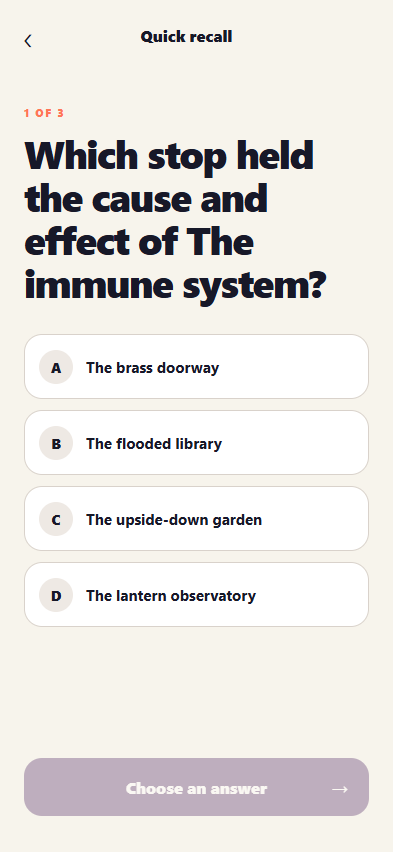
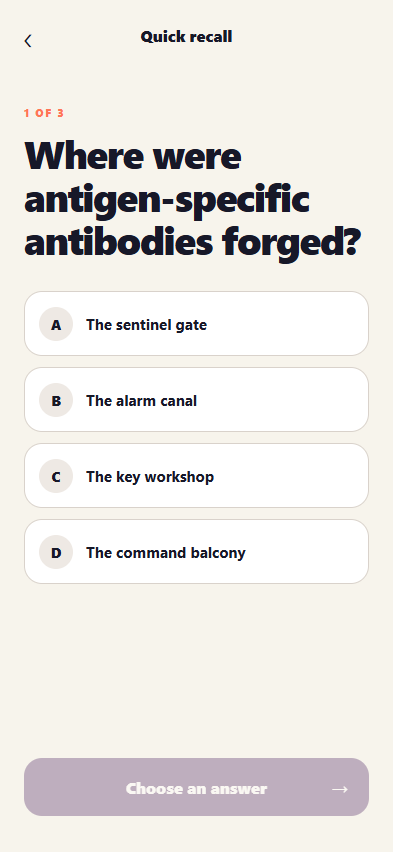
feat: add accurate judge-facing memory trails

Changed region(s): [[0.0611, 0.1526, 0.916, 0.7019], [0.916, 0.3967, 0.9466, 0.7019]]

diff --git a/apps/mobile/src/domain/trails.ts b/apps/mobile/src/domain/trails.ts
@@ -1,13 +1,61 @@
 export type TrailScene = { place: string; emoji: string; title: string; story: string; anchor: string; gradient: readonly [string, string] };
 export type MemoryTrail = { id: string; topic: string; scenes: TrailScene[]; quiz: { prompt: string; options: string[]; correct: number; explanation: string } };
+
 const palettes: Array<readonly [string, string]> = [['#5B326F', '#A14F78'], ['#315D70', '#4E9085'], ['#6E422D', '#D0744F'], ['#3E477A', '#7A67AA'], ['#305A49', '#6C9B67']];
-const places = ['The brass doorway', 'The flooded library', 'The upside-down garden', 'The clockmaker’s roof', 'The lantern observatory'];
-const emoji = ['🚪', '📚', '🌿', '⏳', '🔭'];
+
 export function generateTrail(rawTopic: string): MemoryTrail {
-  const topic = rawTopic.trim().replace(/\s+/g, ' '); if (!topic) throw new Error('A topic is required');
-  const words = topic.split(' '); const key = words.length > 3 ? words.slice(0, 3).join(' ') : topic; const concepts = ['first principle', 'moving parts', 'cause and effect', 'exception', 'lasting insight'];
-  return { id: slug(topic), topic, scenes: concepts.map((concept, index) => ({ place: places[index], emoji: emoji[index], gradient: palettes[index], title: index === 0 ? `Meet ${key}` : capitalize(concept), story: `Picture ${topic} as something alive in ${places[index].toLowerCase()}. Its ${concept} becomes exaggerated, physical, and impossible to ignore.`, anchor: `${capitalize(concept)}: connect the location, the unusual object, and the core idea in one mental snapshot.` })), quiz: { prompt: `Which stop held the cause and effect of ${topic}?`, options: [places[0], places[1], places[2], places[4]], correct: 2, explanation: 'The upside-down garden was your third stop—the place where causes visibly changed their effects.' } };
+  const topic = rawTopic.trim().replace(/\s+/g, ' ');
+  if (!topic) throw new Error('A topic is required');
+  const normalized = topic.toLowerCase();
+  if (normalized.includes('immune')) return immuneTrail(topic);
+  if (normalized.includes('sql') || normalized.includes('join')) return sqlTrail(topic);
+  if (normalized.includes('french') || normalized.includes('verb')) return frenchTrail(topic);
+  return fallbackTrail(topic);
 }
+
+function immuneTrail(topic: string): MemoryTrail {
+  return makeTrail(topic, [
+    ['The sentinel gate', '🛡', 'The first line never sleeps', 'Skin, mucus, and chemical barriers stand at a crowded gate, stopping invaders before they enter.', 'Innate barriers act immediately and broadly.'],
+    ['The alarm canal', '🚨', 'Inflammation calls for help', 'A wounded canal flashes red and widens. Chemical signals increase blood flow and guide immune cells to the damage.', 'Inflammation recruits defenders to an injured site.'],
+    ['The key workshop', '🔑', 'Antibodies fit one target', 'B cells forge Y-shaped keys. Each antibody recognizes a particular antigen and marks that target for removal.', 'Adaptive immunity is specific: one key, one antigen.'],
+    ['The command balcony', '📯', 'T cells coordinate and destroy', 'Helper T cells direct the defense from a balcony while cytotoxic T cells remove infected cells below.', 'Helper T cells coordinate; cytotoxic T cells kill infected cells.'],
+    ['The archive vault', '🗄', 'Memory makes round two faster', 'After the battle, memory B and T cells file the invader’s portrait so the next response begins sooner and stronger.', 'Immune memory explains lasting protection and vaccination.'],
+  ], 'Where were antigen-specific antibodies forged?', 2, 'The key workshop represented B cells producing antibodies that recognize a particular antigen.');
+}
+
+function sqlTrail(topic: string): MemoryTrail {
+  return makeTrail(topic, [
+    ['The matching doorway', '🤝', 'INNER keeps mutual matches', 'Two guest lists meet at one doorway. Only names appearing on both lists are allowed through.', 'INNER JOIN returns rows with matching keys in both tables.'],
+    ['The left-hand gallery', '👈', 'LEFT keeps every left row', 'Every portrait from the left gallery stays on the wall; missing partners from the right become blank frames.', 'LEFT JOIN preserves all left rows and fills missing right values with NULL.'],
+    ['The right-hand gallery', '👉', 'RIGHT mirrors the rule', 'Every right-side portrait remains, even when the left gallery has no matching frame.', 'RIGHT JOIN preserves all right rows.'],
+    ['The union ballroom', '🪩', 'FULL keeps everyone', 'Both guest lists enter the ballroom. Matched guests pair up; unmatched guests still receive a place.', 'FULL OUTER JOIN preserves matched and unmatched rows from both tables.'],
+    ['The multiplication garden', '✖', 'CROSS makes every pairing', 'Each red flower is tied to every blue flower, producing every possible combination.', 'CROSS JOIN returns the Cartesian product.'],
+  ], 'Which stop preserved every row from the left table?', 1, 'The left-hand gallery kept every left portrait and used blank frames—NULLs—when no right match existed.');
+}
+
+function frenchTrail(topic: string): MemoryTrail {
+  return makeTrail(topic, [
+    ['The pronoun station', '👥', 'Choose who performs the action', 'Six passengers—je, tu, il, nous, vous, ils—wait for a verb ticket that agrees with them.', 'Conjugation begins with the subject pronoun.'],
+    ['The stem workshop', '✂', 'Remove the infinitive ending', 'A tailor snips -er, -ir, or -re from the infinitive, leaving the stem ready for a new ending.', 'Regular verbs are built from a stable stem plus an ending.'],
+    ['The ending carousel', '🎠', 'Each subject gets an ending', 'Pronouns ride labeled horses: for parler, je takes -e, tu takes -es, and ils takes -ent.', 'The ending carries person and number.'],
+    ['The irregular alley', '🎭', 'Common verbs break the pattern', 'Être, avoir, aller, and faire wear disguises; their forms must be learned as distinct shapes.', 'High-frequency irregular verbs do not follow one regular template.'],
+    ['The time bridge', '🌉', 'Tense changes the viewpoint', 'The same action crosses past, present, and future arches, changing its auxiliary or ending as it moves.', 'Tense places the action in time.'],
+  ], 'Where was the infinitive ending removed?', 1, 'The stem workshop cut -er, -ir, or -re away before adding a subject-specific ending.');
+}
+
+function fallbackTrail(topic: string): MemoryTrail {
+  const places = ['The brass doorway', 'The flooded library', 'The upside-down garden', 'The clockmaker’s roof', 'The lantern observatory'];
+  const emoji = ['🚪', '📚', '🌿', '⏳', '🔭'];
+  const concepts = ['first principle', 'moving parts', 'cause and effect', 'exception', 'lasting insight'];
+  const scenes = concepts.map((concept, index) => [places[index], emoji[index], capitalize(concept), `Picture ${topic} as something alive here. Make its ${concept} exaggerated, physical, and impossible to ignore.`, `${capitalize(concept)}: connect the location, one unusual object, and the core idea.`] as const);
+  return makeTrail(topic, scenes, `Which stop held the cause and effect of ${topic}?`, 2, 'The upside-down garden was the third stop, where causes visibly changed their effects.');
+}
+
+function makeTrail(topic: string, sceneData: ReadonlyArray<readonly [string, string, string, string, string]>, prompt: string, correct: number, explanation: string): MemoryTrail {
+  const scenes = sceneData.map(([place, emoji, title, story, anchor], index) => ({ place, emoji, title, story, anchor, gradient: palettes[index] }));
+  return { id: slug(topic), topic, scenes, quiz: { prompt, options: scenes.slice(0, 4).map(scene => scene.place), correct, explanation } };
+}
+
 export const starterTrail: MemoryTrail = { id: 'how-memory-works', topic: 'How memory works', scenes: [
   { place: 'The velvet gate', emoji: '🧠', title: 'Attention opens the gate', story: 'A bright gate ignores every thought except the one lit by attention. What you notice gets permission to enter.', anchor: 'Attention decides what reaches working memory.', gradient: ['#58316F', '#A24D76'] },
   { place: 'The echo hall', emoji: '🔔', title: 'Working memory rings briefly', story: 'Seven bells hold small fragments for only a moment. Repeat one and its echo lasts longer.', anchor: 'Working memory is limited and temporary.', gradient: ['#315B70', '#4C9387'] },
@@ -15,5 +63,6 @@ export const starterTrail: MemoryTrail = { id: 'how-memory-works', topic: 'How m
   { place: 'The sleeping workshop', emoji: '🌙', title: 'Sleep sets the shape', story: 'At night, quiet hands file, join, and store the day’s fragile pieces while the workshop is closed.', anchor: 'Sleep supports memory consolidation.', gradient: ['#41467A', '#7164A5'] },
   { place: 'The recall bridge', emoji: '🌉', title: 'Crossing rebuilds the bridge', story: 'Every attempt to cross repairs the path. Looking at a map feels easy; retrieving the route makes it durable.', anchor: 'Active recall strengthens future retrieval.', gradient: ['#78452E', '#D17A4D'] }
 ], quiz: { prompt: 'What makes a new memory grow deeper roots?', options: ['More connections', 'Longer exposure', 'Perfect silence', 'Reading it once'], correct: 0, explanation: 'The glass garden showed that new knowledge lasts when it connects to what you already know.' } };
+
 function slug(value: string) { return value.toLowerCase().replace(/[^a-z0-9]+/g, '-').replace(/(^-|-$)/g, ''); }
 function capitalize(value: string) { return value.charAt(0).toUpperCase() + value.slice(1); }

diff --git a/apps/mobile/src/domain/trails.test.ts b/apps/mobile/src/domain/trails.test.ts
@@ -2,4 +2,6 @@ import { generateTrail } from './trails';
 describe('generateTrail', () => {
   it('creates five distinct, ordered scenes', () => { const trail = generateTrail('  SQL   joins  '); expect(trail.topic).toBe('SQL joins'); expect(trail.scenes).toHaveLength(5); expect(new Set(trail.scenes.map(scene => scene.place)).size).toBe(5); expect(trail.quiz.options).toContain(trail.scenes[trail.quiz.correct].place); });
   it('rejects an empty topic', () => { expect(() => generateTrail('   ')).toThrow('A topic is required'); });
+  it('builds an accurate immune-system trail for the judge-facing suggestion', () => { const trail = generateTrail('The immune system'); expect(trail.scenes.map(scene => scene.anchor).join(' ')).toContain('Adaptive immunity'); expect(trail.scenes.map(scene => scene.anchor).join(' ')).toContain('cytotoxic T cells'); expect(trail.quiz.correct).toBe(2); });
+  it('maps SQL join types to distinct spatial rules', () => { const trail = generateTrail('SQL joins'); expect(trail.scenes.map(scene => scene.title)).toEqual(expect.arrayContaining(['INNER keeps mutual matches', 'LEFT keeps every left row', 'CROSS makes every pairing'])); });
 });

diff --git a/PRODUCT.md b/PRODUCT.md
@@ -14,11 +14,10 @@ Loci Loom is a mobile learning game that converts a topic into a short sequence 
 
 ## Two-day scope
 
-The shipped MVP will include onboarding, a deterministic trail-generation demo, five-scene playback, recall scoring, persistence, a library, a RevenueCat-backed entitlement boundary, and a polished paywall. It will not pretend that unconfigured cloud AI or purchases are live: external services remain explicit adapters with honest demo states.
+The shipped MVP includes onboarding, accurate deterministic trails for the immune system, SQL joins, and French verbs, a generic fallback, five-scene playback, recall, persistence, a library, a RevenueCat-backed entitlement boundary, and a polished paywall. It does not pretend that unconfigured cloud AI or purchases are live: external services remain explicit adapters with honest demo states.
 
 ## Prize strategy
 
 1. **RevenueCat Next Gen — primary.** Best balance of prize value, student eligibility, no store fee, and a repo/video-based judging path.
 2. **Nebius Best Apps and Agents / Personal AI — extension.** Strong fit once Nemotron generation and persistent adaptive learning are connected.
 3. **Amazon Alexa+ — extension.** A stateful daily-recall Agent Skill is credible, but device/simulation requirements make it a worse first 24-hour target.
-

diff --git a/README.md b/README.md
@@ -10,7 +10,7 @@ Loci Loom is an Expo learning game that converts a subject into five visual memo
 - Deterministic trail generation for a reliable, offline judge demo.
 - RevenueCat SDK adapter for offerings, purchases, entitlement checks, and restoration.
 - Explicit demo billing adapter when no public SDK key is configured.
-- Nine domain and RevenueCat-adapter tests, strict TypeScript, compiled web output, and a reproducible full browser smoke test.
+- Eleven domain and RevenueCat-adapter tests, strict TypeScript, compiled web output, and a reproducible full browser smoke test.
 - A tested 54-second Remotion submission video with a no-credit neural voiceover, built from real product screenshots.
 
 ## Run the app

diff --git a/submission/VIDEO.md b/submission/VIDEO.md
@@ -5,8 +5,8 @@
 - Video: H.264
 - Audio: AAC, generated from the checked-in narration without paid credits
 - Measured duration: 54.058667 seconds
-- File size: 5,344,793 bytes
[1 lines of base64/hex data omitted]
+- File size: 5,264,261 bytes
[1 lines of base64/hex data omitted]
 - Local artifact: `apps/video/out/loci-loom-demo.mp4`
 
 Verification: Remotion lint and TypeScript passed; the complete MP4 decoded through FFmpeg with no reported errors. The source voice track measures 51.96 seconds and is delayed by 15 frames with frame-based fade-in and fade-out.

diff --git a/TESTING.md b/TESTING.md
@@ -3,7 +3,7 @@
 | Gate | Command / method | Result |
 | --- | --- | --- |
 | Type safety | `cd apps/mobile && npm run typecheck` | Pass |
-| Domain and SDK-adapter tests | `cd apps/mobile && npm test` | 4 suites, 9 tests pass |
+| Domain and SDK-adapter tests | `cd apps/mobile && npm test` | 4 suites, 11 tests pass |
 | Production bundle | `cd apps/mobile && npm run export:web` | Pass |
 | Product smoke test | `cd apps/mobile && npm run smoke:web` | Home → create → five stops → recall → paywall → saved library pass |
 | Video source | `cd apps/video && npm run lint` | ESLint and TypeScript pass |
